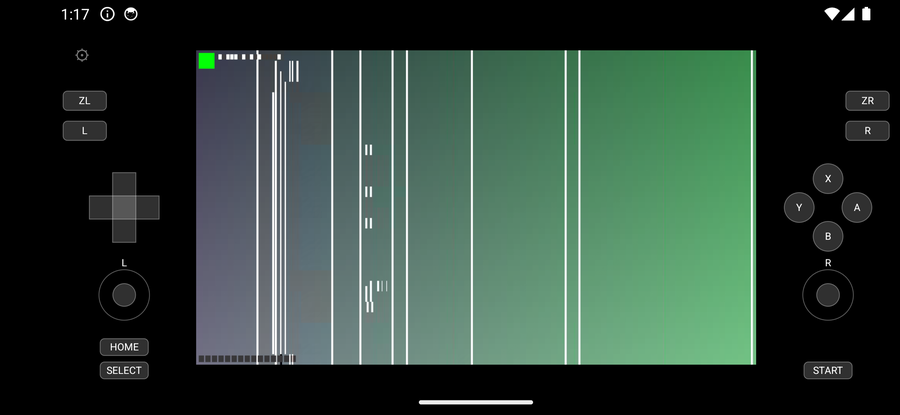
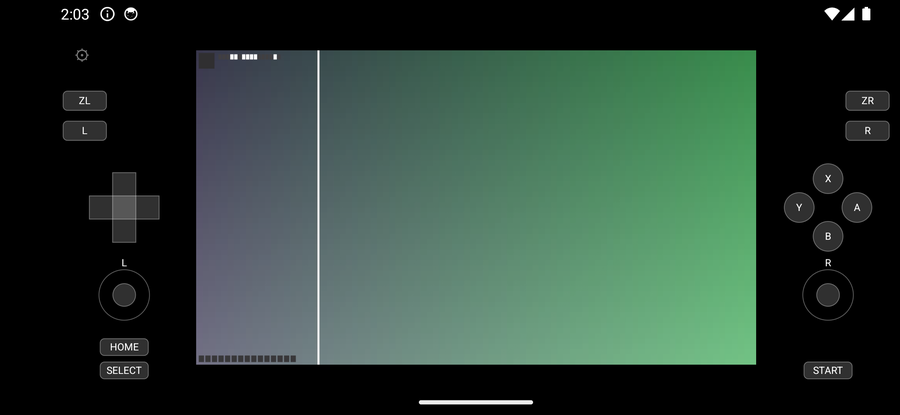
Retake the two smeared Wii U shots, and stop throwing keyframes away
The stray vertical lines are the test pattern's one moving line leaving
a trail: places the picture should have been repainted and was not. Of
the nine screenshots, exactly those two were affected, at 4 and 12 lines
against 1 for the rest. Both retaken clean.

What it is not. The server dropped nothing -- no queue overflowed in any
run. Keyframes are not missing either: measured off the wire, 11 IDRs in
five seconds, each carrying its SPS, about one every 450ms. And it is
not the Wii U, or the size of its picture: a DS at 60fps produced four
lines in one run while a Wii U rerun was clean. My first reading, that
854x480 at 60fps was too much and 30fps fixed it, was one sample each
way and did not survive repeating.

What is left is the phone side, and the emulator's software decoder is
the only thing there that the browser -- clean on the same streams, at
the same sizes -- does not use. I have not proved the mechanism, and a
decoded IDR ought to wipe a trail, which this one does not for seconds
at a time.

The change here is worth making regardless and does NOT fix it. The
decoder gave any frame 2ms to find an input buffer and silently dropped
it otherwise, keyframes included -- and dropping a keyframe costs every
frame until the next one rather than the difference it carried. A
keyframe now gets 30ms, and any drop asks the server for a fresh one
instead of waiting, rate-limited because a decoder that is behind drops
[…]

diff --git a/android/app/src/main/kotlin/fr/wozt/bottomscreen/MainActivity.kt b/android/app/src/main/kotlin/fr/wozt/bottomscreen/MainActivity.kt
@@ -67,6 +67,8 @@ class MainActivity : AppCompatActivity(), BsClient.Listener, SurfaceHolder.Callb
     private var volume = 1f
     private var muted = false
     @Volatile private var surfaceReady = false
+    /* When a keyframe was last asked for to repair a dropped frame. */
+    private var lastRepairAsk = 0L
     private var profile = ConsoleProfile.DS
     private var panel: View? = null
     private var settingsGear: TextView? = null
@@ -519,7 +521,22 @@ class MainActivity : AppCompatActivity(), BsClient.Listener, SurfaceHolder.Callb
          * nothing for the UI thread to do, and a hop through its queue
          * would only add the wait for whatever it is already doing. */
         val d = decoder ?: return
+        val droppedBefore = d.starved
         if (!d.decode(data, offset, length, keyframe)) return
+        /*
+         * A dropped frame leaves the picture wrong until something
+         * repaints it, and the next scheduled keyframe can be most of a
+         * second away. Ask for one instead of waiting -- rate-limited,
+         * because a decoder that is behind drops frames in bursts and
+         * one request per burst is enough.
+         */
+        if (d.starved != droppedBefore) {
+            val now = System.currentTimeMillis()
+            if (now - lastRepairAsk > 500) {
+                lastRepairAsk = now
+                client?.requestKeyframe()
+            }
+        }
 
         frames++
         val now = System.currentTimeMillis()

diff --git a/android/app/src/main/kotlin/fr/wozt/bottomscreen/BsVideoDecoder.kt b/android/app/src/main/kotlin/fr/wozt/bottomscreen/BsVideoDecoder.kt
@@ -81,7 +81,16 @@ class BsVideoDecoder(
              * backlog. Dropping the frame lets the stream catch up on
              * its own, and the next keyframe repairs the picture.
              */
-            val inIndex = c.dequeueInputBuffer(2000)
+            /*
+             * A keyframe is worth waiting for. Dropping a P-frame costs
+             * the difference it carried; dropping a keyframe costs every
+             * frame after it, because nothing repaints what drifted
+             * until the next one a whole second later. That is what the
+             * stray vertical lines in a screenshot are -- the moving
+             * line of the test pattern leaving a trail where an update
+             * never landed.
+             */
+            val inIndex = c.dequeueInputBuffer(if (isKeyframe) 30000 else 2000)
             if (inIndex >= 0) {
                 val buf: ByteBuffer? = c.getInputBuffer(inIndex)
                 if (buf != null) {
